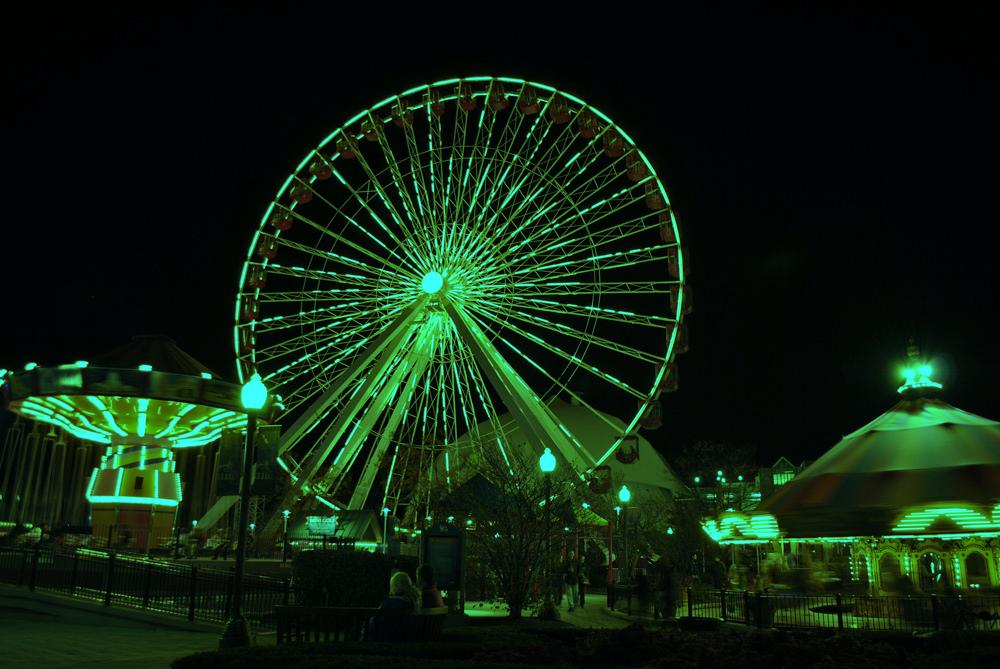
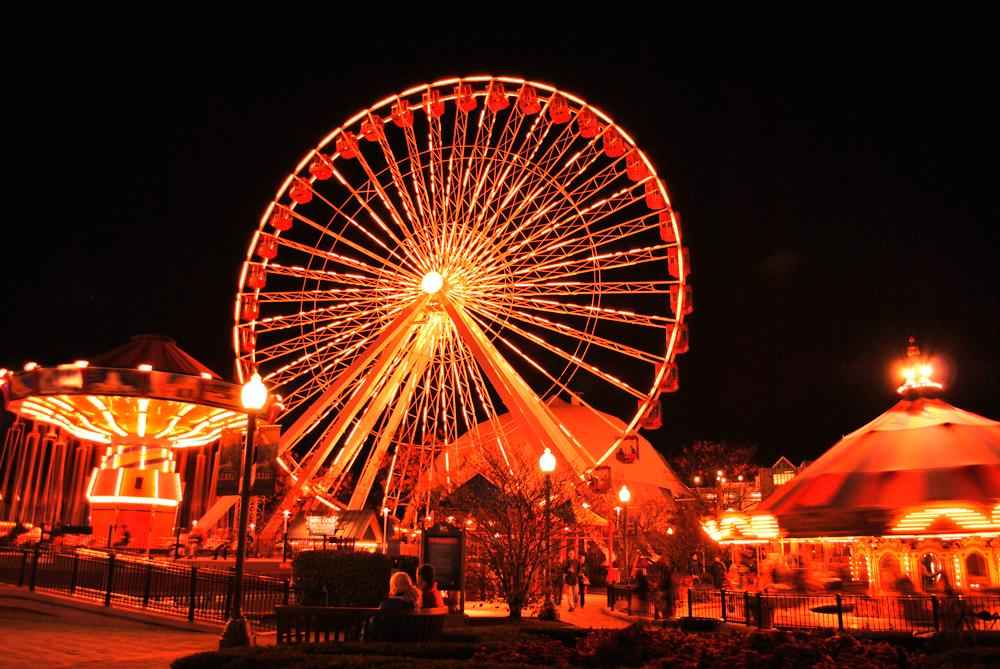
11/12/25
EZZZZZZZZZZZZZZZZZZZZZZ x2

diff --git a/ColorLabs17/SheparFaireyLab.java b/ColorLabs17/SheparFaireyLab.java
@@ -27,7 +27,7 @@ public class SheparFaireyLab
          //relative path
          Picture apic = new Picture("images\\beach.jpg");
          //change with selfie picture
-         Picture me = new Picture("images/beach.jpg");
+         Picture me = new Picture("images/jenny-red.jpg");
          Picture me1 = new Picture("images/beach.jpg");
          Picture me2 = new Picture("images/beach.jpg");
         
@@ -35,7 +35,32 @@ public class SheparFaireyLab
           * method 1 change
           * 
           */
-         
+        Pixel[] Mpixels;
+        Mpixels = me.getPixels();
+        Color offwhite = new Color(240,240,225);
+        Color boldred = new Color(243,60,60);
+        Color boldblue = new Color(50,177,235);
+        Color lightblue = new Color(60,205,211);
+            for (Pixel spot1 : Mpixels){
+            int red=spot1.getRed();
+            int blue=spot1.getBlue();
+            int green=spot1.getGreen();
+            int avg=(red+blue+green)/3;
+            if (avg >= 160){
+                spot1.setColor(offwhite);
+            }
+            if (avg < 160 && avg >=125){
+                spot1.setColor(lightblue);
+            }
+            if (avg <125 && avg >=75){
+                spot1.setColor(boldblue);
+            }
+            if (avg <75){
+                spot1.setColor(boldred);
+            }
+        }
+        me.explore();
+
          /**
           * method 2 change
           * 

diff --git a/ColorLabs17/TestPicture17.java b/ColorLabs17/TestPicture17.java
@@ -103,7 +103,7 @@ public class TestPicture17
     for (Pixel spot1 : Mpixels){
     //System.out.println( spot );
     int red=spot1.getRed();
-    red=(int)(red*.25);
+    red=(int)(red*2);
     spot1.setRed(red);
     
 }
@@ -114,7 +114,7 @@ ferris1.explore();
 for (Pixel spot1 : Mpixels2){
     //System.out.println( spot );
     int blue=spot1.getBlue();
-    blue=(int)(blue*.25);
+    blue=(int)(blue*2);
     spot1.setBlue(blue);
     
 }
@@ -125,7 +125,7 @@ ferris2.explore();
 for (Pixel spot1 : Mpixels3){
     //System.out.println( spot );
     int green=spot1.getGreen();
-    green=(int)(green*.25);
+    green=(int)(green*2);
     spot1.setGreen(green);
     
 }
@@ -159,9 +159,9 @@ for (Pixel spot1 : Mpixels6){
     int red=spot1.getRed();
     int blue=spot1.getBlue();
     int green=spot1.getGreen();
-    spot1.setGreen(255);
-    spot1.setBlue(0);
-    spot1.setRed(255);
+    spot1.setGreen(green+50);
+    spot1.setBlue(blue-50);
+    spot1.setRed(green+50);
 }
 ferris6.explore(); 
  /*
